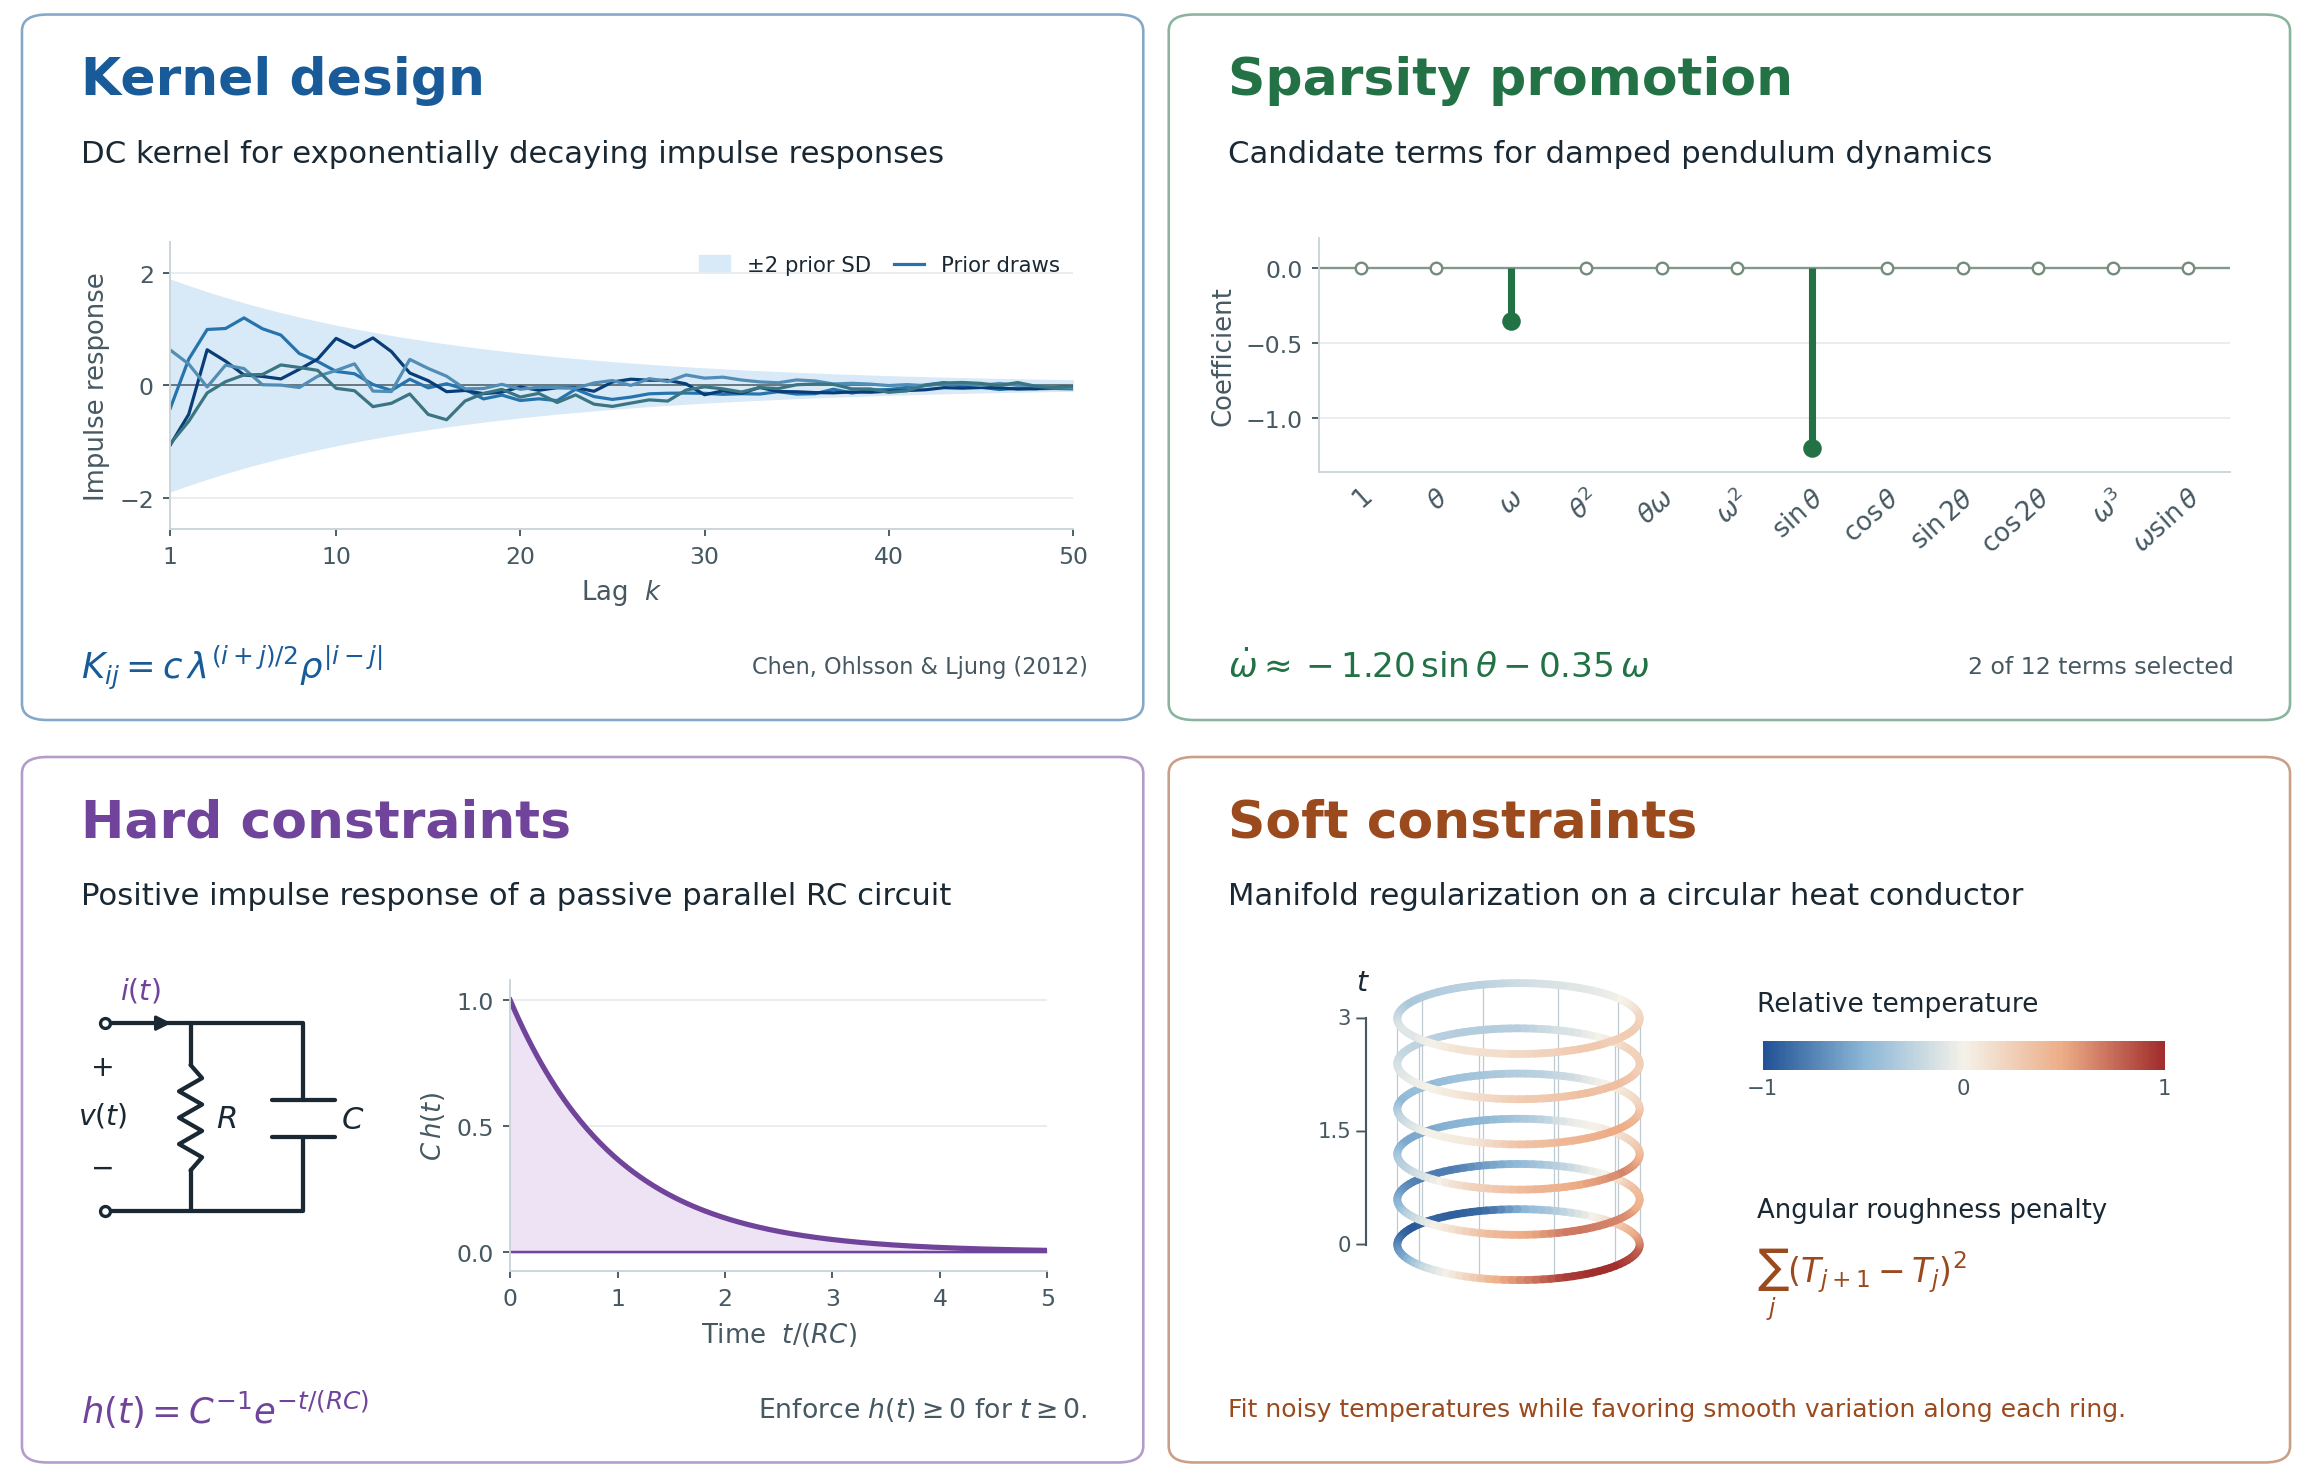
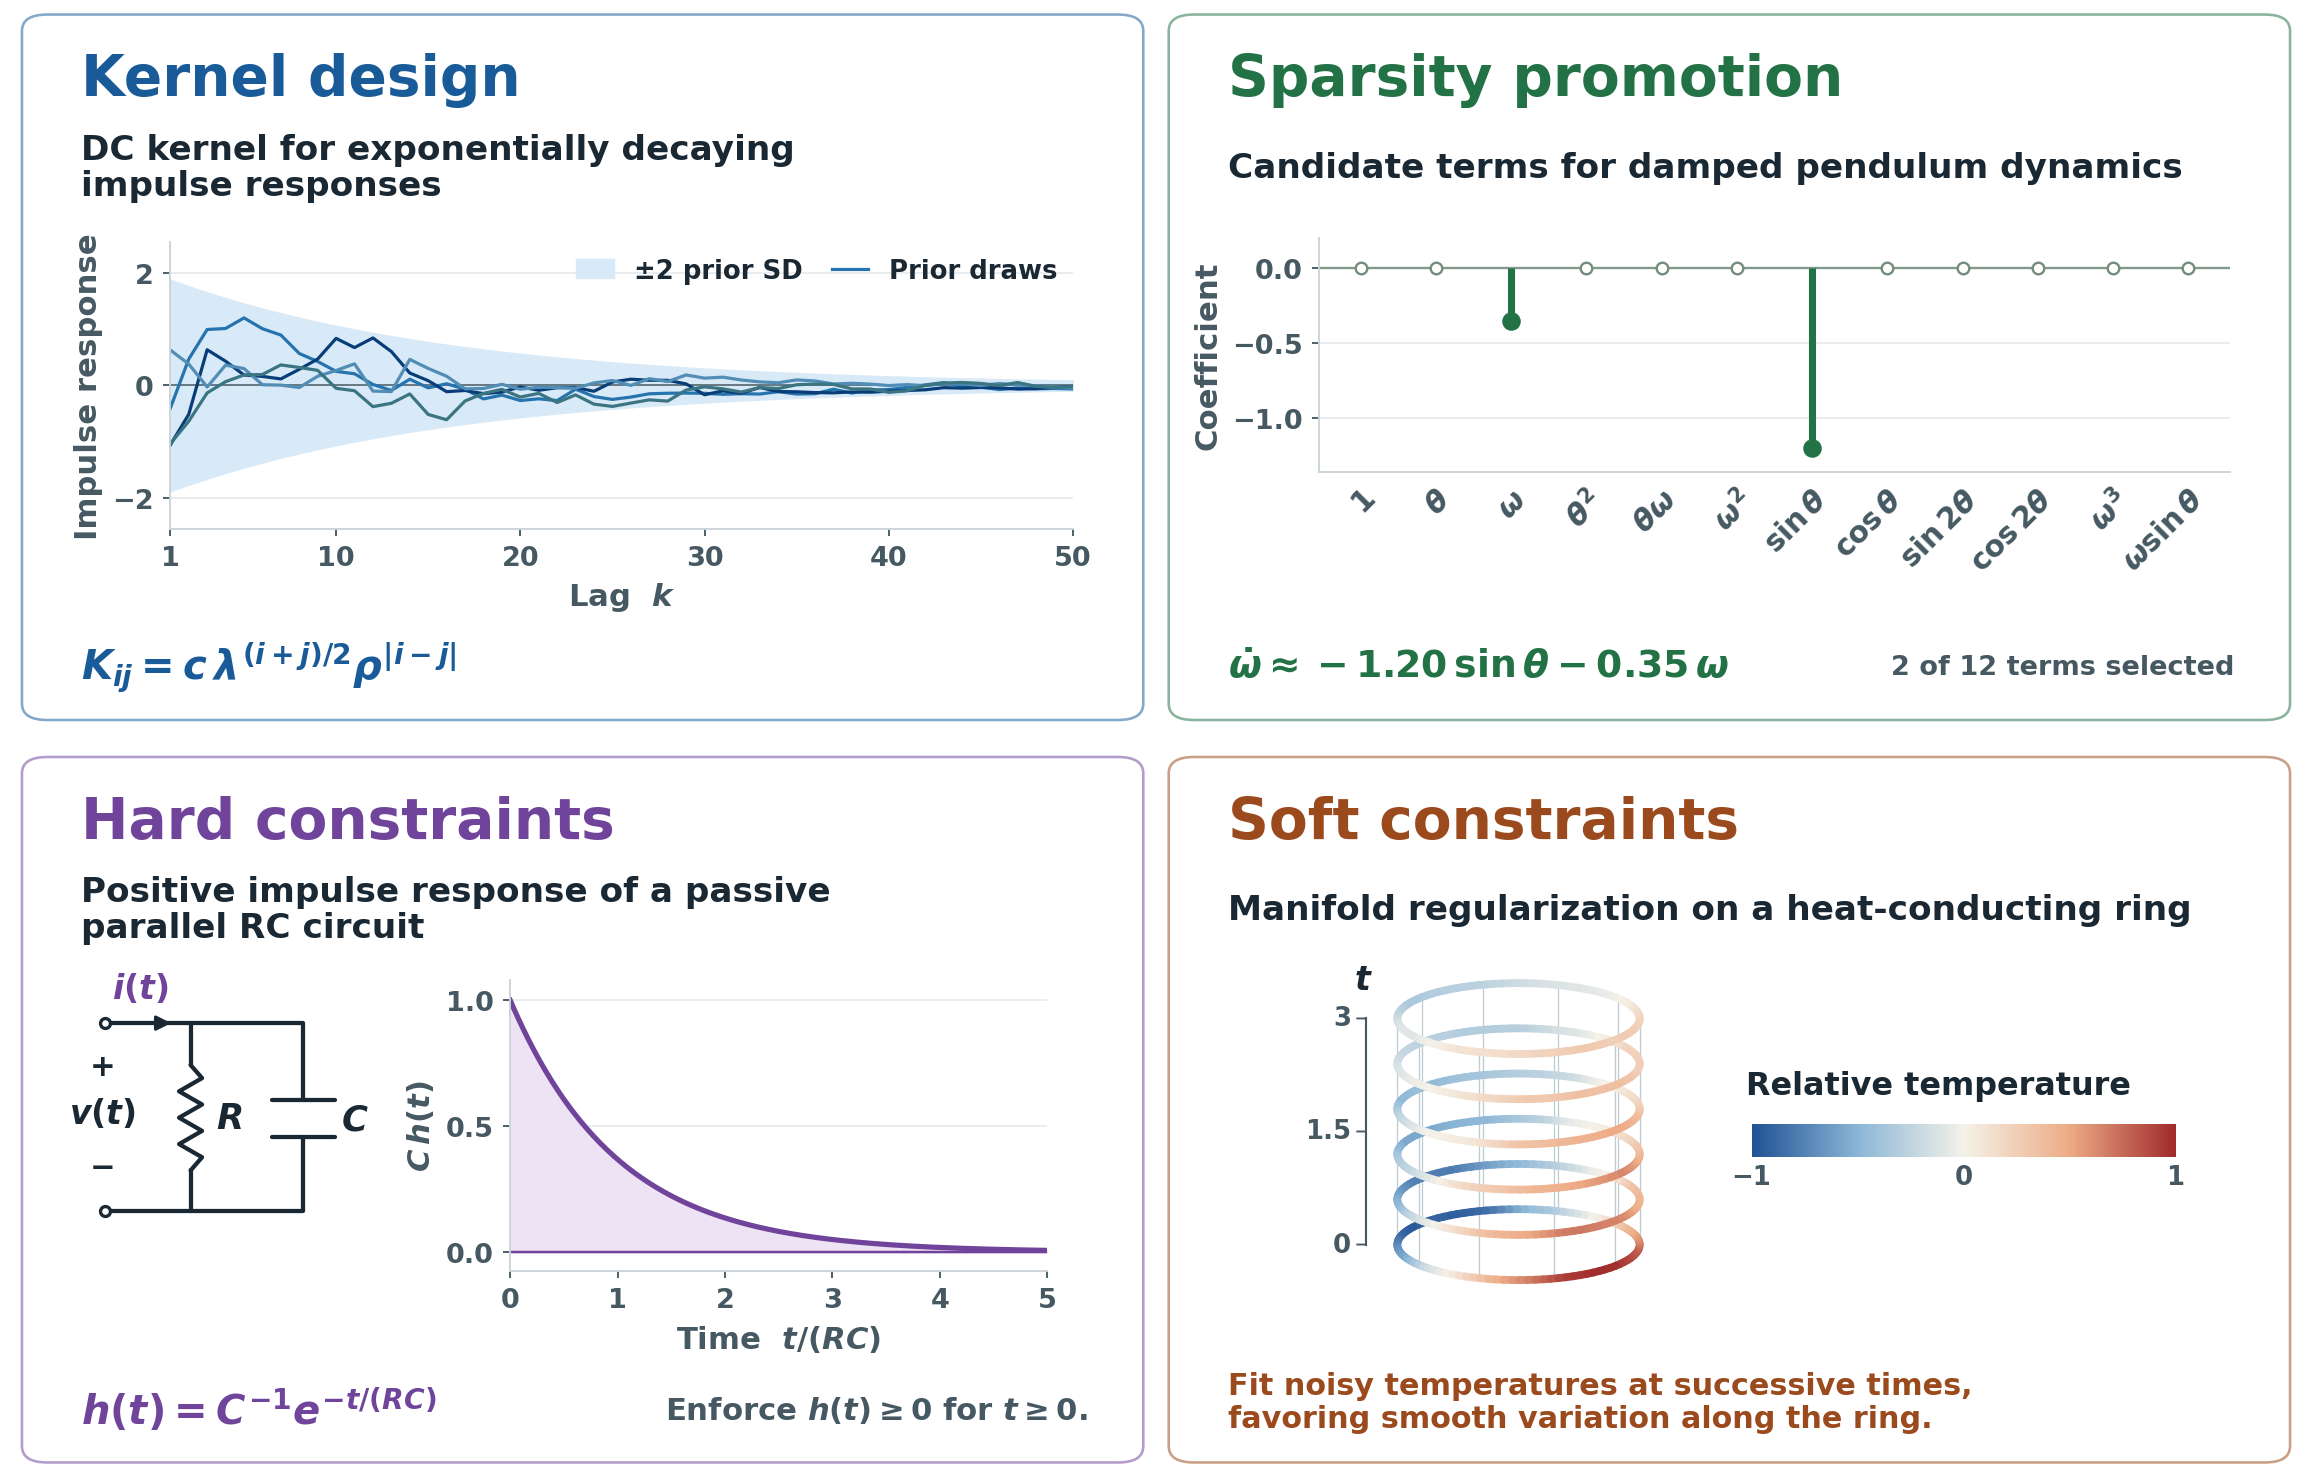
Simplify the physics-informed modeling figure and enlarge its lettering

diff --git a/research-physics-informed-modeling.html b/research-physics-informed-modeling.html
@@ -4,7 +4,7 @@
 <meta charset="utf-8">
 <meta name="viewport" content="width=device-width, initial-scale=1">
 <title>Physics-informed modeling | Tianshi Chen</title>
-<link rel="stylesheet" href="styles.css?v=research-5">
+<link rel="stylesheet" href="styles.css?v=physics-labels">
 </head>
 <body>
 <a class="skip" href="#main">Skip to content</a>
@@ -33,7 +33,7 @@ Guangdong, China</p>
 </aside>
 <main id="main">
 <div class="page-heading"><nav class="links" aria-label="Breadcrumb"><a href="research.html">Research</a><span aria-hidden="true">/</span><span>Physics-informed modeling</span></nav><h1>Physics-informed modeling</h1><p>Physics-informed kernel methods, Gaussian process regression, Bayesian manifold regularization, deep learning, and sparsity-promoting methods.</p></div>
-<div class="topic-intro"><figure class="research-figure"><a href="assets/research/physics-informed-modeling-approaches.png?v=dc-rc-manifold" title="Open full-size illustration"><img src="assets/research/physics-informed-modeling-approaches.png?v=dc-rc-manifold" alt="Illustrative examples of physics-informed modeling. The DC kernel gives impulse-response coefficients exponentially decaying prior variance. Sparse selection retains gravity and damping from 12 pendulum terms. A passive parallel RC circuit has a positive impulse response. A 3D stack of rings shows temperatures fitted with a soft penalty on differences between neighboring angles at each time." width="2312" height="1478" loading="lazy"></a><figcaption class="meta">DC kernel from <a href="https://doi.org/10.1016/j.automatica.2012.05.026">Chen, Ohlsson, and Ljung (2012), Eq. (49b)</a>.</figcaption></figure></div>
+<div class="topic-intro"><figure class="research-figure physics-examples"><a href="assets/research/physics-informed-modeling-approaches.png?v=ring-labels" title="Open full-size illustration"><img src="assets/research/physics-informed-modeling-approaches.png?v=ring-labels" alt="Illustrative examples of physics-informed modeling. The DC kernel gives impulse-response coefficients exponentially decaying prior variance. Sparse selection retains gravity and damping from 12 pendulum terms. A passive parallel RC circuit has a positive impulse response. The 3D plot shows the same ring at successive times. Manifold regularization favors smooth temperature variation along the ring." width="2312" height="1478" loading="lazy"></a></figure></div>
 <section class="section" id="journals">
 <h2>Journal papers</h2>
 <ol class="rows numbered-list">

diff --git a/research.html b/research.html
@@ -43,7 +43,7 @@ Guangdong, China</p>
 </section>
 <section class="section research-topic" id="physics-informed-modeling">
 <h2><a href="research-physics-informed-modeling.html">Physics-informed modeling</a></h2>
-<div class="research-grid"><a class="research-figure" href="research-physics-informed-modeling.html" aria-label="Physics-informed modeling"><img src="assets/research/physics-informed-modeling-approaches.png?v=dc-rc-manifold" alt="Illustrative examples of physics-informed modeling. The DC kernel gives impulse-response coefficients exponentially decaying prior variance. Sparse selection retains gravity and damping from 12 pendulum terms. A passive parallel RC circuit has a positive impulse response. A 3D stack of rings shows temperatures fitted with a soft penalty on differences between neighboring angles at each time." width="2312" height="1478" loading="lazy"></a><div class="research-description"><p>Physics-informed kernel methods, Gaussian process regression, Bayesian manifold regularization, deep learning, and sparsity-promoting methods.</p><p class="research-more"><a href="research-physics-informed-modeling.html">Related publications <span aria-hidden="true">→</span></a></p></div></div>
+<div class="research-grid"><a class="research-figure" href="research-physics-informed-modeling.html" aria-label="Physics-informed modeling"><img src="assets/research/physics-informed-modeling-approaches.png?v=ring-labels" alt="Illustrative examples of physics-informed modeling. The DC kernel gives impulse-response coefficients exponentially decaying prior variance. Sparse selection retains gravity and damping from 12 pendulum terms. A passive parallel RC circuit has a positive impulse response. The 3D plot shows the same ring at successive times. Manifold regularization favors smooth temperature variation along the ring." width="2312" height="1478" loading="lazy"></a><div class="research-description"><p>Physics-informed kernel methods, Gaussian process regression, Bayesian manifold regularization, deep learning, and sparsity-promoting methods.</p><p class="research-more"><a href="research-physics-informed-modeling.html">Related publications <span aria-hidden="true">→</span></a></p></div></div>
 </section>
 <section class="section research-topic" id="statistical-theory">
 <h2><a href="research-statistical-theory.html">Statistical theory</a></h2>

diff --git a/styles.css b/styles.css
@@ -135,6 +135,8 @@ nav a[aria-current="page"] { font-weight: 700; }
 .topic-intro { margin: 1.5rem 0 2rem; }
 .topic-intro .research-figure { width: 100%; max-width: 30rem; margin-inline: auto; }
 .topic-intro .research-figure img { width: auto; max-width: 100%; height: auto; max-height: 18rem; margin-inline: auto; }
+.topic-intro .physics-examples { max-width: 36rem; }
+.topic-intro .physics-examples img { width: 100%; max-height: none; }
 .topic-intro > p { margin-top: .65rem; }
 .page-heading h1 { margin-top: .6rem; }
 @media (max-width: 700px) {
